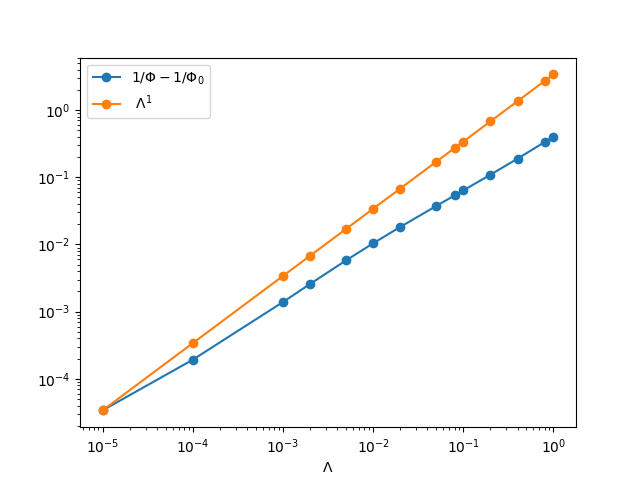
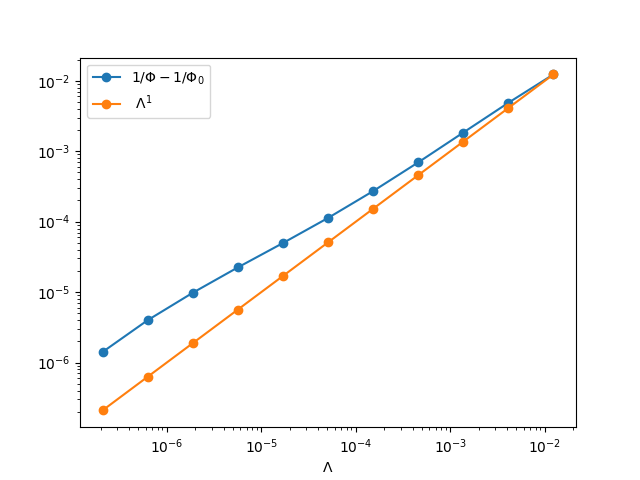
update

diff --git a/Ex1_square_top_snowflake/main_flux.py b/Ex1_square_top_snowflake/main_flux.py
@@ -7,7 +7,8 @@ from scipy import stats
 #nn=int(input("Enter the number of iterations for the pre-fractal boundary: "))
 #deg=int(input("Enter the degree of polynomial: "))
 nn=4
-deg=2
+deg=3
+l=(1/3)**nn
 Lp=(4/3)**nn
 # choose a triangulation
 mesh_file =f'domain/unit_square_with_koch_{nn}.msh'
@@ -87,10 +88,10 @@ with open(f'results/Phi_Lam_{nn}.csv', 'w', newline='') as csvfile:
 PETSc.Sys.Print(f"Result for 0<Lambda<1000 saved to results/Phi_Lam_{nn}.csv ")
 
 
-# Region 1: Lambda <1 
+# Region 1: Lambda <l 
 Phi=[]
 cc=[]
-LL = np.array([10**(-5),10**(-4),0.001,0.002,0.005,0.01,0.02,0.05,0.08,0.1,0.2,0.4,0.8,1])
+LL = np.array([3**(-i) for i in range(nn,15)])
 for Lambda in LL:
   a = Constant(D)*dot(grad(u), grad(v))*dx+Constant(D)/Constant(Lambda)*u*v*ds(4)
   L = Constant(0)*v*dx
@@ -123,19 +124,19 @@ plt.loglog(LL,(LL)**alpha/(LL[0]**alpha)*(phi_2[0]),marker='o')
 plt.legend(['$1/\Phi-1/\Phi_0$', '$~\Lambda^{{%s}}$' % (alpha)])
 plt.xlabel('$\Lambda$')
 plt.savefig(f"figures/Phi_Lam_{nn}_R1.png")
-PETSc.Sys.Print(f"plot for 0<Lambda<1 saved to figures/Phi_Lam_{nn}_R1.png ")
+PETSc.Sys.Print(f"plot for 0<Lambda<l saved to figures/Phi_Lam_{nn}_R1.png ")
 with open(f'results/Phi_Lam_{nn}_R1.csv', 'w', newline='') as csvfile:
     fieldnames = ['Lambda', 'flux','DL_p/Lambda']
     writer = csv.DictWriter(csvfile, fieldnames=fieldnames)
     writer.writeheader()
     for i in range(len(LL)):
        writer.writerow({'Lambda': LL[i], 'flux': Phi[i], 'DL_p/Lambda':cc[i] })
-PETSc.Sys.Print(f"Result for 0<Lambda<1 saved to results/Phi_Lam_{nn}_R1.csv ")
+PETSc.Sys.Print(f"Result for 0<Lambda<\ell saved to results/Phi_Lam_{nn}_R1.csv ")
 
-# Region 2: 1< Lambda<L_p  
+# Region 2: l< Lambda<L_p  
 Phi=[]
 cc=[]
-LL = np.linspace(1,Lp,15) 
+LL = np.linspace(l,Lp,20) 
 for Lambda in LL:
   a = Constant(D)*dot(grad(u), grad(v))*dx+Constant(D)/Constant(Lambda)*u*v*ds(4)
   L = Constant(0)*v*dx
@@ -167,13 +168,13 @@ plt.loglog(LL, phi_2,marker='o')
 plt.loglog(LL,(LL)**alpha/(LL[0]**alpha)*(phi_2[0]),marker='o')
 plt.legend(['$1/\Phi-1/\Phi_0$', '$~\Lambda^{{%s}}$' % (alpha)])
 plt.xlabel('$\Lambda$')
-plt.savefig(f"figures/Phi_Lam2_{nn}_R2.png")
-PETSc.Sys.Print(f"Plot for 1<Lambda<L_p saved to figures/Phi_Lam_{nn}_R2.png ")
+plt.savefig(f"figures/Phi_Lam_{nn}_R2.png")
+PETSc.Sys.Print(f"Plot for l<Lambda<L_p saved to figures/Phi_Lam_{nn}_R2.png ")
 with open(f'results/Phi_Lam_{nn}_R2.csv', 'w', newline='') as csvfile:
     fieldnames = ['Lambda', 'flux','DL_p/Lambda']
     writer = csv.DictWriter(csvfile, fieldnames=fieldnames)
     writer.writeheader()
     for i in range(len(LL)):
        writer.writerow({'Lambda': LL[i], 'flux': Phi[i], 'DL_p/Lambda':cc[i] })
-PETSc.Sys.Print(f"Result for 1<Lambda<L_p saved to results/Phi_Lam_{nn}_R2.csv ")
+PETSc.Sys.Print(f"Result for l<Lambda<L_p saved to results/Phi_Lam_{nn}_R2.csv ")
 
